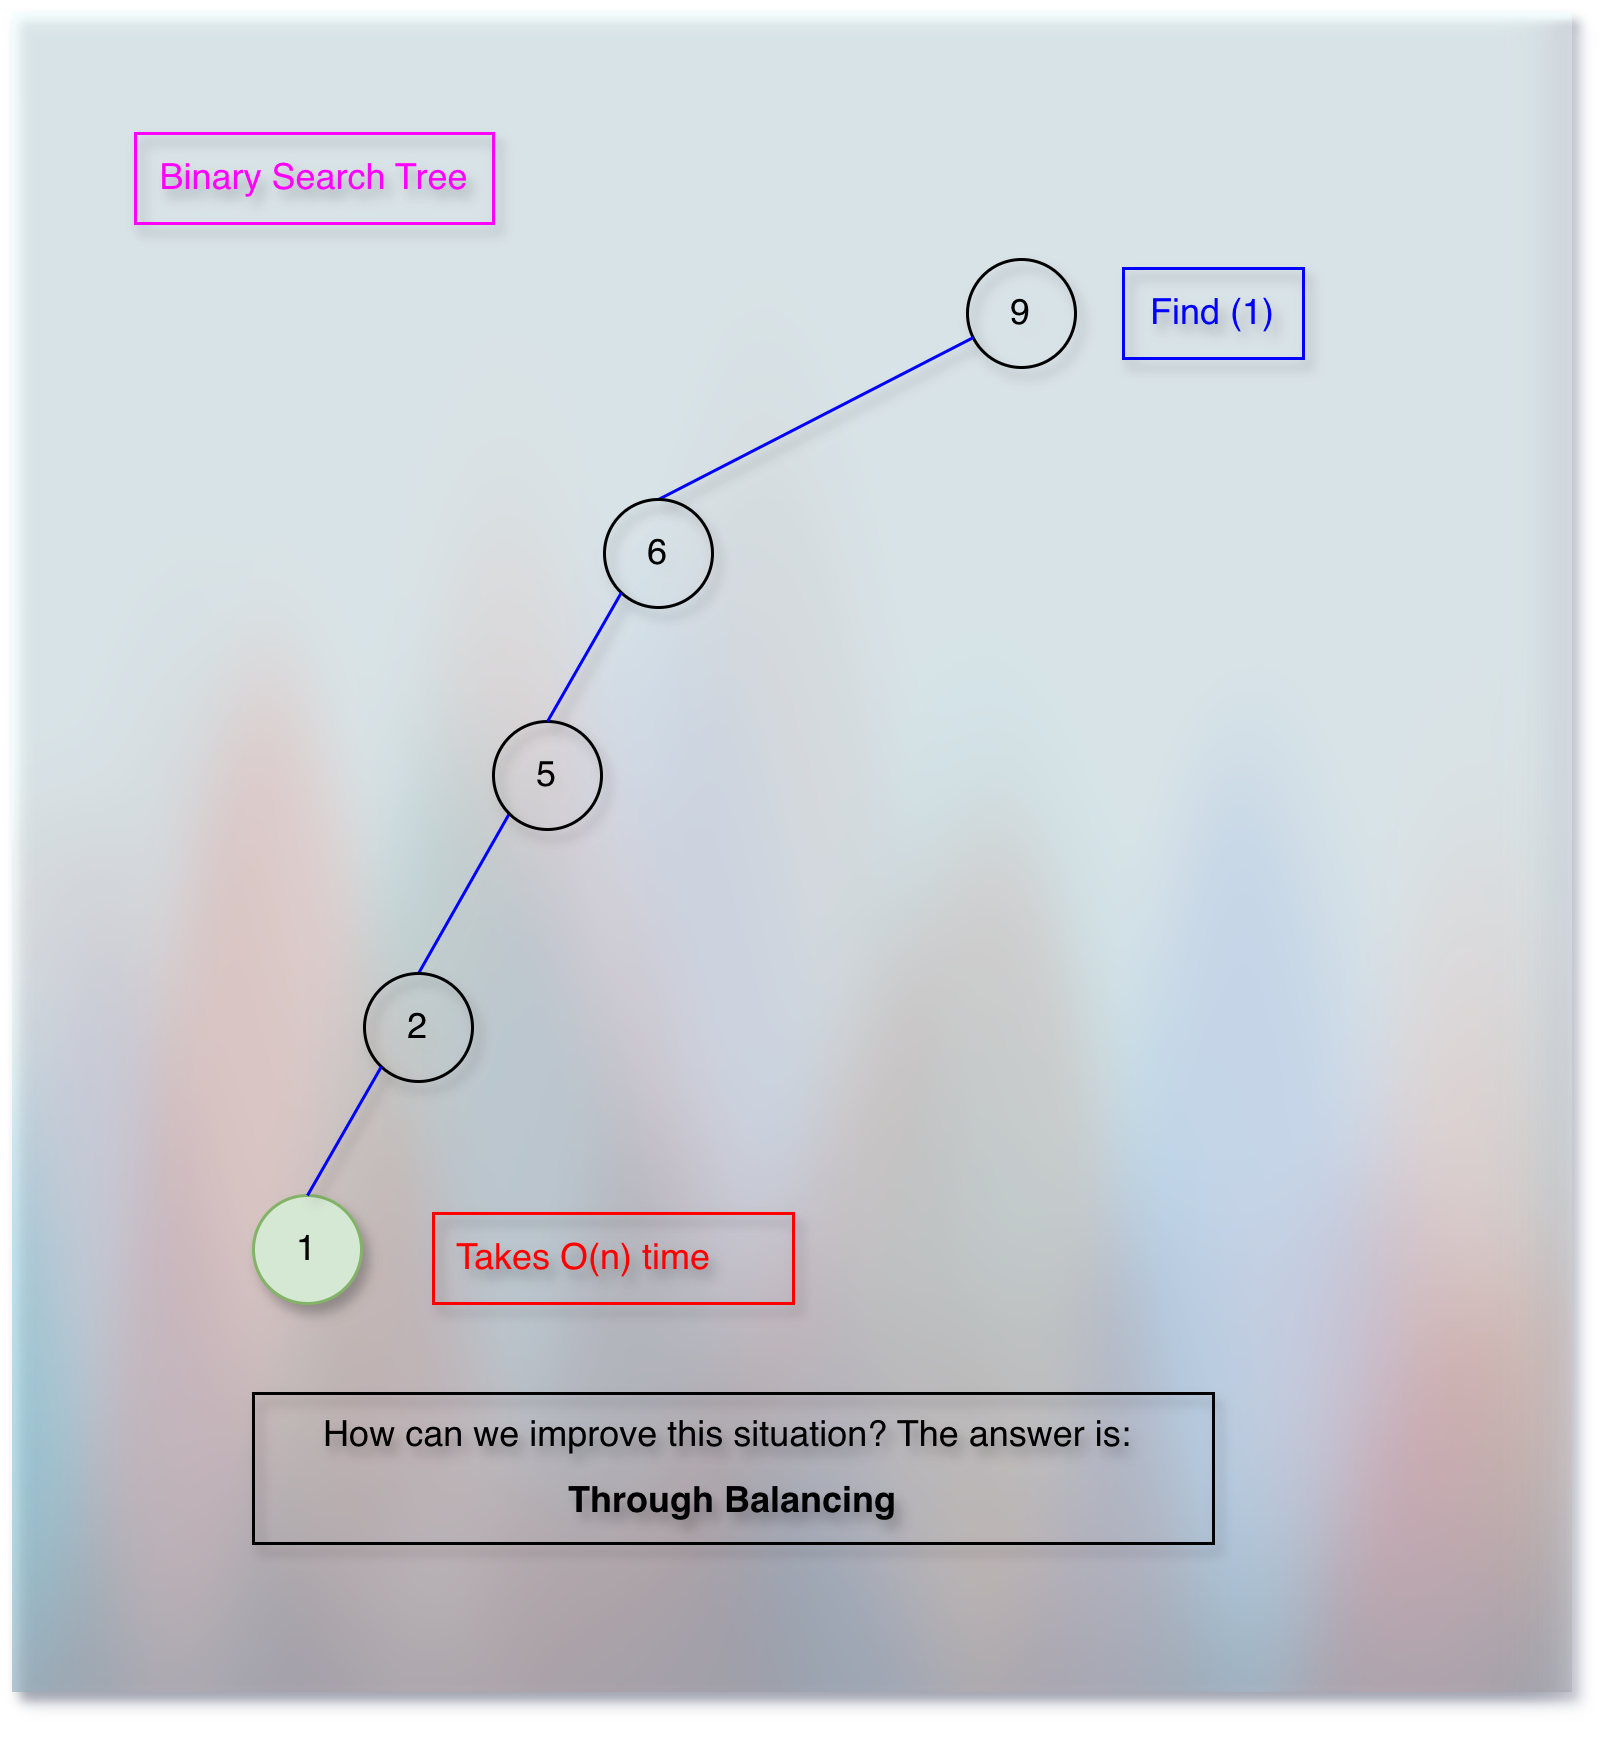
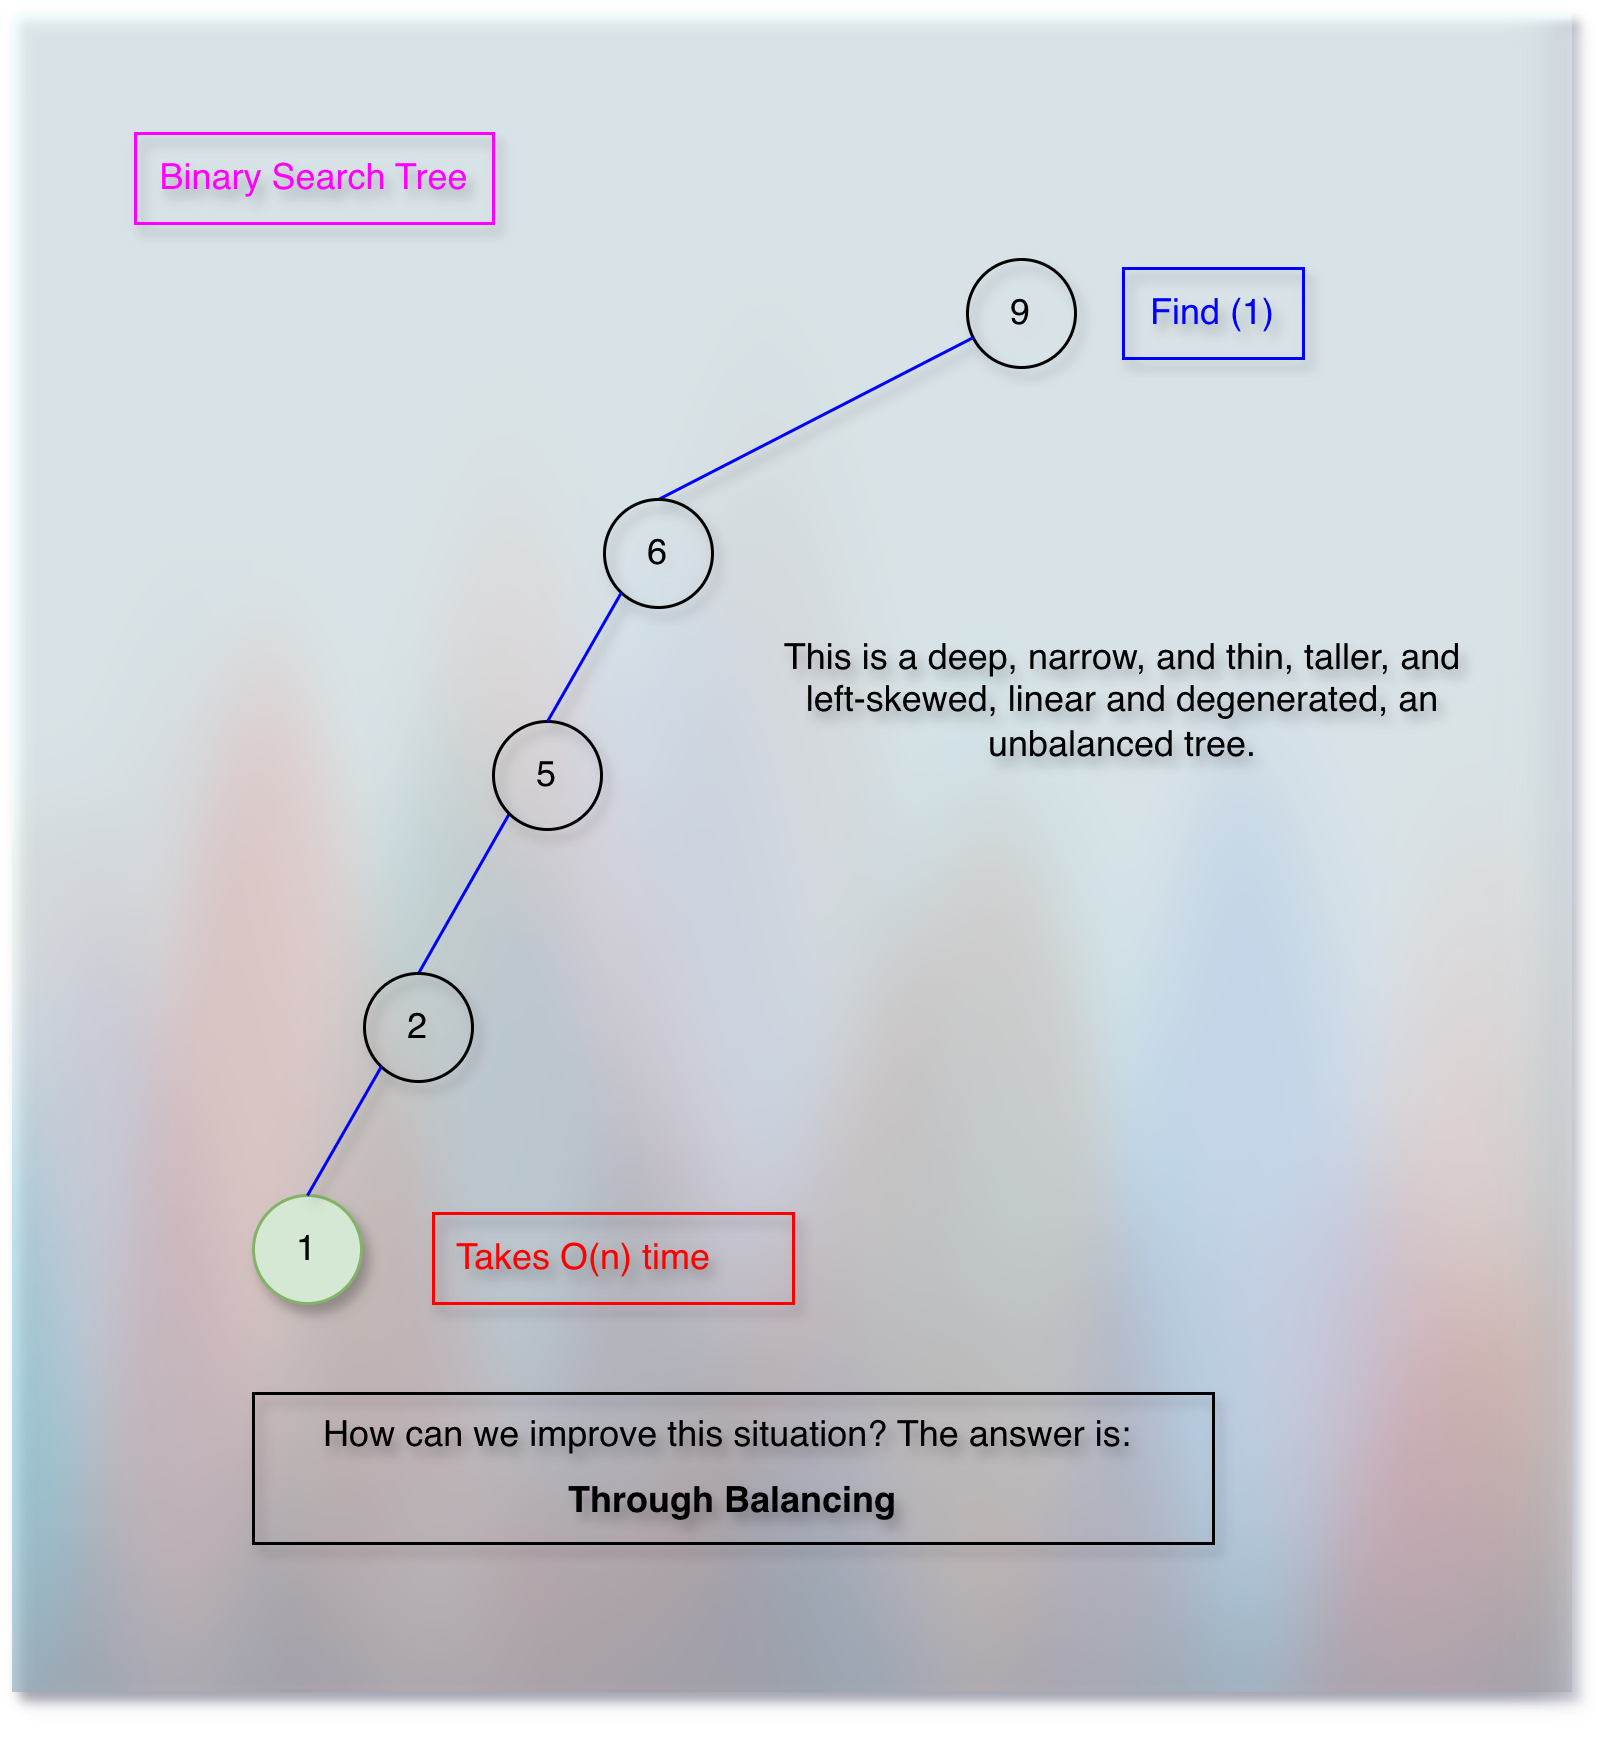
docs: add BST balance sections on depth problem and rebalancing solutions | 15binarySearchTreesBSTBalance.md | A part of the data structures. Reference: Coursera: UC San Diego:  Data Structures: Module 05: Binary Search Trees
Took 20 minutes

Changed region(s): [[0.4929, 0.3711, 0.8934, 0.433]]

diff --git a/docs/dataStructures/courses/uc/module05binarySearchTrees/15binarySearchTreesBSTBalance.md b/docs/dataStructures/courses/uc/module05binarySearchTrees/15binarySearchTreesBSTBalance.md
@@ -5,6 +5,9 @@
   * [Prerequisites/References](#prerequisitesreferences)
   * [Objectives](#objectives)
   * [Understanding the basic runtime of a binary search tree operation](#understanding-the-basic-runtime-of-a-binary-search-tree-operation)
+  * [The depth problem](#the-depth-problem)
+  * [How does the re-balancing solve the depth problem?](#how-does-the-re-balancing-solve-the-depth-problem)
+  * [What can create an unbalanced tree?](#what-can-create-an-unbalanced-tree)
   * [What is the difference between a binary heap tree and a binary search tree?](#what-is-the-difference-between-a-binary-heap-tree-and-a-binary-search-tree)
   * [Next](#next)
 <!-- TOC -->
@@ -45,14 +48,26 @@
 
 ![120bstDepthProblemExample3.png](../../../../../assets/images/dataStructures/uc/module05binarySearchTreesBST/120bstDepthProblemExample3.png)
 
-* If a binary search tree is not balanced, we take `O(n)` time for the `find` operation. 
+* If a binary search tree is not balanced, we might take `O(n)` time for the `find` operation. 
 
 ## How does the re-balancing solve the depth problem?
 
 ![130bstBalancingExample.png](../../../../../assets/images/dataStructures/uc/module05binarySearchTreesBST/130bstBalancingExample.png)
 
-* Re-balancing reduces the depth.
+* Re-balancing reduces the depth and keeps the `in-order (LPR)` sorted.
 * Hence, the `find` operation becomes faster (efficient).
+
+## What can create an unbalanced tree?
+
+![140bstInsertDeleteProblem.png](../../../../../assets/images/dataStructures/uc/module05binarySearchTreesBST/140bstInsertDeleteProblem.png)
+
+* Insert and delete operations.
+
+## How do we keep the binary search tree balanced?
+
+* Using the rotation technique.
+
+ToDo: Next: Rotation overview.
 
 ## What is the difference between a binary heap tree and a binary search tree?
 
